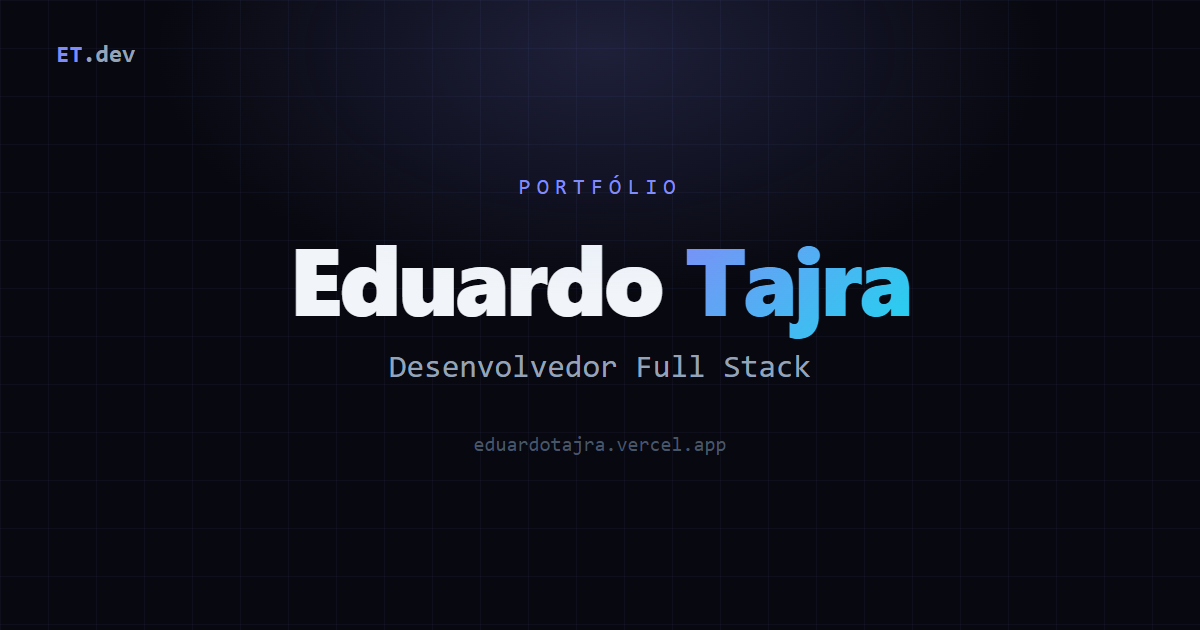
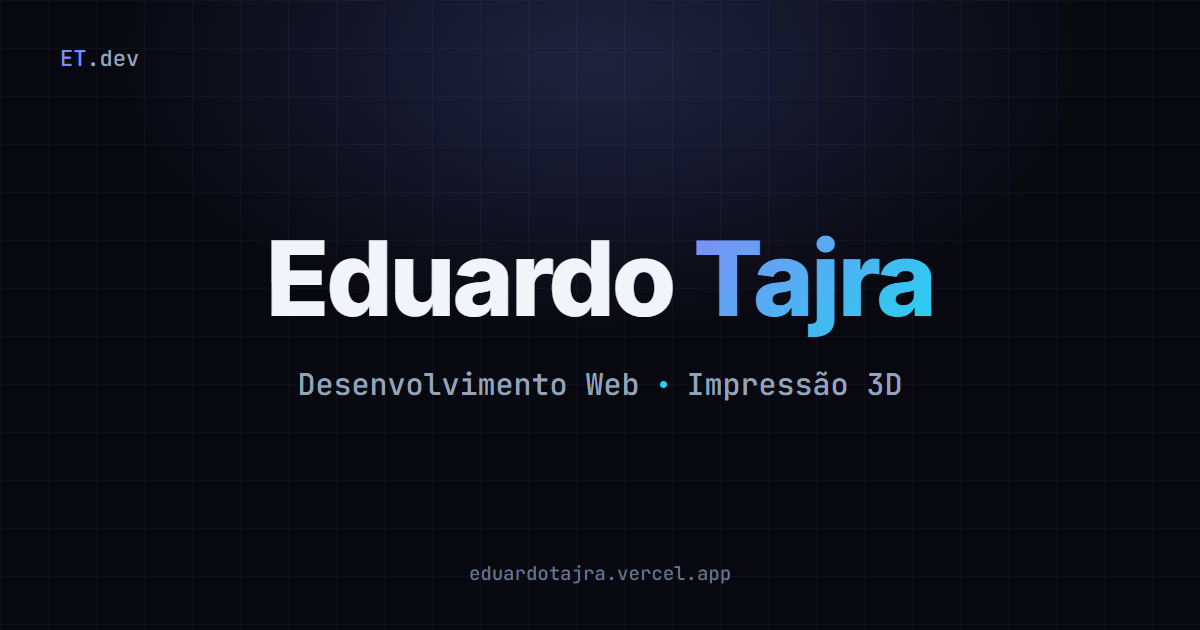
chore: refresh seo metadata, fix muted contrast and prune public assets

diff --git a/index.html b/index.html
@@ -4,16 +4,22 @@
     <meta charset="UTF-8" />
     <link rel="icon" type="image/svg+xml" href="/favicon.svg" />
     <meta name="viewport" content="width=device-width, initial-scale=1.0" />
-    <meta name="description" content="Portfólio de Eduardo Tajra, desenvolvedor front end e full stack" />
-    <title>Eduardo Tajra · Dev</title>
+    <meta name="description" content="Eduardo Tajra cria sites, jogos e experiências interativas sob medida, além de impressão 3D sob encomenda. Veja os projetos e peça um orçamento." />
+    <title>Eduardo Tajra · Desenvolvimento web e impressão 3D</title>
+    <link rel="canonical" href="https://eduardotajra.vercel.app/" />
     <meta property="og:type" content="website" />
-    <meta property="og:title" content="Eduardo Tajra · Dev" />
-    <meta property="og:description" content="Portfólio de Eduardo Tajra, desenvolvedor front end e full stack" />
+    <meta property="og:site_name" content="Eduardo Tajra" />
+    <meta property="og:locale" content="pt_BR" />
+    <meta property="og:title" content="Eduardo Tajra · Desenvolvimento web e impressão 3D" />
+    <meta property="og:description" content="Sites, jogos e experiências interativas sob medida, além de impressão 3D sob encomenda. Veja os projetos e peça um orçamento." />
     <meta property="og:url" content="https://eduardotajra.vercel.app/" />
     <meta property="og:image" content="https://eduardotajra.vercel.app/og.png" />
+    <meta property="og:image:width" content="1200" />
+    <meta property="og:image:height" content="630" />
+    <meta property="og:image:alt" content="Eduardo Tajra — Desenvolvimento Web e Impressão 3D" />
     <meta name="twitter:card" content="summary_large_image" />
-    <meta name="twitter:title" content="Eduardo Tajra · Dev" />
-    <meta name="twitter:description" content="Portfólio de Eduardo Tajra, desenvolvedor front end e full stack" />
+    <meta name="twitter:title" content="Eduardo Tajra · Desenvolvimento web e impressão 3D" />
+    <meta name="twitter:description" content="Sites, jogos e experiências interativas sob medida, além de impressão 3D sob encomenda." />
     <meta name="twitter:image" content="https://eduardotajra.vercel.app/og.png" />
     <link rel="preconnect" href="https://fonts.googleapis.com" />
     <link rel="preconnect" href="https://fonts.gstatic.com" crossorigin />

diff --git a/src/data/projects.js b/src/data/projects.js
@@ -146,36 +146,8 @@ export const projects = [
     },
     featured: false,
   },
-  {
-    id: 10,
-    title: 'AtlasOS: Sonho',
-    description:
-      'Um sistema operacional que nunca existiu. O visitante explora arquivos, logs e um terminal para remontar uma história fragmentada.',
-    category: 'autorais',
-    tags: ['JavaScript', 'HTML', 'CSS'],
-    screenshot: '/screenshots/atlasos.png',
-    repoPrivate: true,
-    links: {
-      demo: 'https://atlasos-sonho.vercel.app',
-      github: 'https://github.com/eduardotajra/atlasos-sonho',
-    },
-    featured: false,
-  },
-  {
-    id: 12,
-    title: 'Mapa Sistema Atlas',
-    description:
-      'Visualização de topologia de rede: os nós e as conexões de um sistema desenhados de forma navegável, em vez de uma planilha.',
-    category: 'autorais',
-    tags: ['JavaScript', 'SVG'],
-    screenshot: '/screenshots/mapaatlas.png',
-    repoPrivate: true,
-    links: {
-      demo: 'https://mapa-sistema-atlas.vercel.app',
-      github: 'https://github.com/eduardotajra/mapa-sistema-atlas',
-    },
-    featured: false,
-  },
+  // AtlasOS: Sonho e Mapa Sistema Atlas ficaram fora por ora: fazem parte de um
+  // universo de enigmas em andamento e expor o conteúdo entregaria pistas.
   {
     id: 14,
     title: 'Onze de Ouro',

diff --git a/tailwind.config.js b/tailwind.config.js
@@ -12,7 +12,9 @@ export default {
         accent: '#818cf8',
         'accent-dark': '#6366f1',
         cyan: '#22d3ee',
-        muted: '#475569',
+        // #64748b (sugerido) ficava em 4.19:1 no fundo da página e reprovava no AA.
+        // Este é o tom mais próximo que passa em todas as superfícies do site.
+        muted: '#7688a0',
         'text-primary': '#f1f5f9',
         'text-secondary': '#94a3b8',
       },
